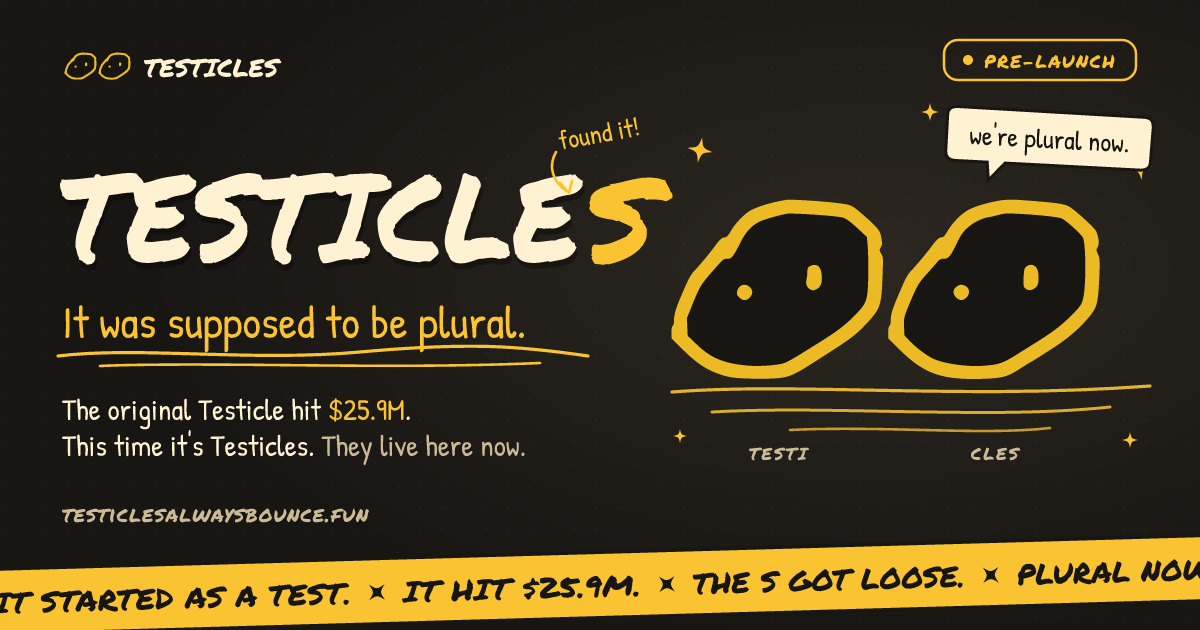
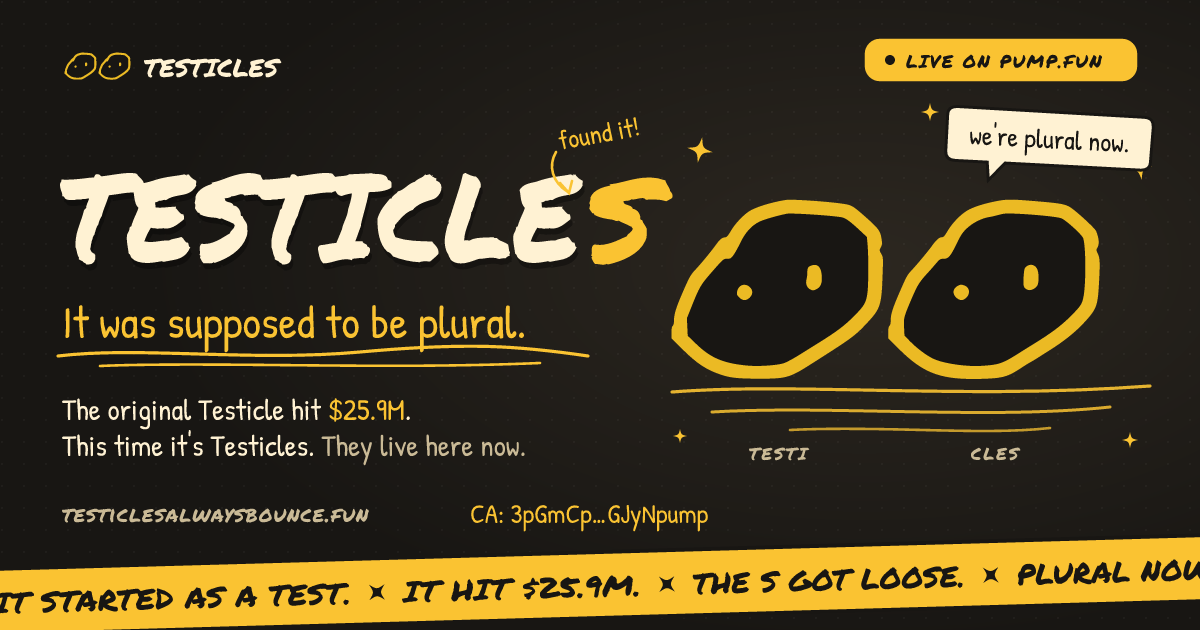
Go live: contract address, buy and chart links
- Copyable CA pills (hero + finale), Buy on pump.fun buttons, DexScreener
  chart link, LIVE · BUY nav chip, footer links
- OG image now says LIVE ON PUMP.FUN and shows the CA
- Pet dialog lines updated for launch

Changed region(s): [[0.7092, 0.0603, 0.9558, 0.1508], [0.4008, 0.7841, 0.5858, 0.8444]]

diff --git a/index.html b/index.html
@@ -66,7 +66,7 @@
       <a href="#pfp">PFP</a>
       <a class="x-link" href="https://x.com/i/communities/2002717537985773778" target="_blank" rel="noopener" aria-label="Testicles community on X"><svg viewBox="0 0 24 24" aria-hidden="true"><path d="M18.244 2.25h3.308l-7.227 8.26 8.502 11.24H16.17l-5.214-6.817L4.99 21.75H1.68l7.73-8.835L1.254 2.25H8.08l4.713 6.231zm-1.161 17.52h1.833L7.084 4.126H5.117z"/></svg></a>
       <button class="sound-toggle" type="button" aria-pressed="false"><span class="sound-bars"><i></i><i></i><i></i></span><span class="sound-label">sound off</span></button>
-      <a href="#contract" class="chip"><span class="chip-dot"></span>PRE-LAUNCH</a>
+      <a href="https://pump.fun/coin/3pGmCpDCr2B6cZFhFJFtLrcMCadMvjV4dB9UGJyNpump" class="chip" target="_blank" rel="noopener"><span class="chip-dot"></span>LIVE · BUY</a>
     </nav>
   </header>
 
@@ -83,11 +83,12 @@
         </p>
         <p class="hero-sub">The original Testicle hit <b>$25.9M</b>.<br />This time it's Testicles. There are two of them. <em>They live here now.</em></p>
         <div class="hero-actions">
+          <a class="btn btn-buy" href="https://pump.fun/coin/3pGmCpDCr2B6cZFhFJFtLrcMCadMvjV4dB9UGJyNpump" target="_blank" rel="noopener" data-magnetic><svg viewBox="0 0 24 24" aria-hidden="true"><path d="M3 4h2.5l2.2 10.5a1.5 1.5 0 0 0 1.5 1.2h7.6a1.5 1.5 0 0 0 1.5-1.1L20 8H6.4"/><circle cx="10" cy="19.5" r="1.4"/><circle cx="17" cy="19.5" r="1.4"/></svg>Buy $TESTICLES</a>
           <button class="btn btn-bounce" type="button" data-magnetic>
             <svg viewBox="0 0 24 24" aria-hidden="true"><path d="M3 18 C 6 6, 9 6, 12 18 C 14 10, 16 10, 18 18 C 19 14, 20 14, 21 18" /></svg>
             Make it bounce
           </button>
-          <button class="ca-pill" type="button"><svg viewBox="0 0 24 24" aria-hidden="true"><rect x="5" y="11" width="14" height="10" rx="2" /><path d="M8 11 V8 a4 4 0 0 1 8 0 V11" /></svg><span>CA coming at launch</span></button>
+          <button class="ca-pill" type="button" data-ca="3pGmCpDCr2B6cZFhFJFtLrcMCadMvjV4dB9UGJyNpump" aria-label="Copy contract address 3pGmCpDCr2B6cZFhFJFtLrcMCadMvjV4dB9UGJyNpump"><span class="ca-tag">CA</span><code class="ca-full">3pGmCpDCr2B6cZFhFJFtLrcMCadMvjV4dB9UGJyNpump</code><code class="ca-short">3pGmCp…GJyNpump</code><svg class="ca-copy" viewBox="0 0 24 24" aria-hidden="true"><rect x="8" y="8" width="12" height="12" rx="2"/><path d="M16 8V5a1 1 0 0 0-1-1H5a1 1 0 0 0-1 1v10a1 1 0 0 0 1 1h3"/></svg><span class="ca-done">copied!</span></button>
           <a class="btn btn-x" href="https://x.com/i/communities/2002717537985773778" target="_blank" rel="noopener"><svg viewBox="0 0 24 24" aria-hidden="true"><path d="M18.244 2.25h3.308l-7.227 8.26 8.502 11.24H16.17l-5.214-6.817L4.99 21.75H1.68l7.73-8.835L1.254 2.25H8.08l4.713 6.231zm-1.161 17.52h1.833L7.084 4.126H5.117z"/></svg>Join on X</a>
         </div>
         <p class="hero-hint"><span class="hint-arrow">↙</span> psst — grab them. throw them. they don't mind.</p>
@@ -284,12 +285,14 @@
       <h2 class="finale-title" data-perch><span>TESTICLES</span><span>ALWAYS BOUNCE.</span></h2>
       <p class="finale-hint">↑ grab the letters. they always bounce back.</p>
       <div class="finale-actions">
-        <a class="btn btn-x btn-x-big" href="https://x.com/i/communities/2002717537985773778" target="_blank" rel="noopener" data-magnetic><svg viewBox="0 0 24 24" aria-hidden="true"><path d="M18.244 2.25h3.308l-7.227 8.26 8.502 11.24H16.17l-5.214-6.817L4.99 21.75H1.68l7.73-8.835L1.254 2.25H8.08l4.713 6.231zm-1.161 17.52h1.833L7.084 4.126H5.117z"/></svg>Join the community on X</a>
-        <button class="ca-pill ca-pill-big" type="button"><svg viewBox="0 0 24 24" aria-hidden="true"><rect x="5" y="11" width="14" height="10" rx="2" /><path d="M8 11 V8 a4 4 0 0 1 8 0 V11" /></svg><span>CA coming at launch</span></button>
+        <button class="ca-pill ca-pill-big" type="button" data-ca="3pGmCpDCr2B6cZFhFJFtLrcMCadMvjV4dB9UGJyNpump" aria-label="Copy contract address 3pGmCpDCr2B6cZFhFJFtLrcMCadMvjV4dB9UGJyNpump"><span class="ca-tag">CA</span><code class="ca-full">3pGmCpDCr2B6cZFhFJFtLrcMCadMvjV4dB9UGJyNpump</code><code class="ca-short">3pGmCp…GJyNpump</code><svg class="ca-copy" viewBox="0 0 24 24" aria-hidden="true"><rect x="8" y="8" width="12" height="12" rx="2"/><path d="M16 8V5a1 1 0 0 0-1-1H5a1 1 0 0 0-1 1v10a1 1 0 0 0 1 1h3"/></svg><span class="ca-done">copied!</span></button>
+        <a class="btn btn-buy btn-x-big" href="https://pump.fun/coin/3pGmCpDCr2B6cZFhFJFtLrcMCadMvjV4dB9UGJyNpump" target="_blank" rel="noopener"><svg viewBox="0 0 24 24" aria-hidden="true"><path d="M3 4h2.5l2.2 10.5a1.5 1.5 0 0 0 1.5 1.2h7.6a1.5 1.5 0 0 0 1.5-1.1L20 8H6.4"/><circle cx="10" cy="19.5" r="1.4"/><circle cx="17" cy="19.5" r="1.4"/></svg>Buy on pump.fun</a>
+        <a class="btn btn-x btn-chart" href="https://dexscreener.com/solana/3pGmCpDCr2B6cZFhFJFtLrcMCadMvjV4dB9UGJyNpump" target="_blank" rel="noopener"><svg viewBox="0 0 24 24" aria-hidden="true"><path d="M3 19 L9 12 L13 15 L21 5 M16 5 H21 V10"/></svg>Chart</a>
+        <a class="btn btn-x" href="https://x.com/i/communities/2002717537985773778" target="_blank" rel="noopener" data-magnetic><svg viewBox="0 0 24 24" aria-hidden="true"><path d="M18.244 2.25h3.308l-7.227 8.26 8.502 11.24H16.17l-5.214-6.817L4.99 21.75H1.68l7.73-8.835L1.254 2.25H8.08l4.713 6.231zm-1.161 17.52h1.833L7.084 4.126H5.117z"/></svg>Join the community on X</a>
       </div>
       <footer class="foot">
         <span>© TESTICLES — a test that got out of hand.</span>
-        <span class="foot-links"><a href="https://pump.fun/coin/4TyZGqRLG3VcHTGMcLBoPUmqYitMVojXinAmkL8xpump" target="_blank" rel="noopener">Original</a><a href="https://x.com/i/communities/2002717537985773778" target="_blank" rel="noopener">X community</a><a href="#top">Back to top ↑</a></span>
+        <span class="foot-links"><a href="https://pump.fun/coin/4TyZGqRLG3VcHTGMcLBoPUmqYitMVojXinAmkL8xpump" target="_blank" rel="noopener">Original</a><a href="https://pump.fun/coin/3pGmCpDCr2B6cZFhFJFtLrcMCadMvjV4dB9UGJyNpump" target="_blank" rel="noopener">pump.fun</a><a href="https://dexscreener.com/solana/3pGmCpDCr2B6cZFhFJFtLrcMCadMvjV4dB9UGJyNpump" target="_blank" rel="noopener">DexScreener</a><a href="https://x.com/i/communities/2002717537985773778" target="_blank" rel="noopener">X community</a><a href="#top">Back to top ↑</a></span>
       </footer>
     </section>
   </main>

diff --git a/src/style.css b/src/style.css
@@ -680,3 +680,24 @@ main { position: relative; z-index: 1; }
 .btn-x svg { width: 20px; height: 20px; fill: currentColor; stroke: none; }
 .btn-x-big { font-size: 26px; padding: 16px 30px 17px; background: var(--yellow); }
 .btn-x-big svg { width: 24px; height: 24px; }
+
+/* live CA + buy */
+.ca-pill { position: relative; color: var(--cream); border-style: solid; border-color: rgba(250, 195, 50, 0.6); background: rgba(24, 22, 19, 0.6); }
+.ca-pill:hover { border-color: var(--yellow); color: var(--yellow); }
+.ca-tag { font-family: var(--display); font-size: 0.75em; padding: 2px 7px; border-radius: 6px; background: var(--yellow); color: var(--ink); }
+.ca-pill code { font-family: ui-monospace, 'SFMono-Regular', Consolas, monospace; font-size: 0.78em; letter-spacing: 0.02em; }
+.ca-short { display: none; }
+.ca-pill svg.ca-copy { width: 18px; height: 18px; fill: none; stroke: currentColor; stroke-width: 2; flex: none; }
+.ca-done { position: absolute; inset: 0; display: grid; place-items: center; border-radius: inherit; background: var(--yellow); color: var(--ink); font-family: var(--display); font-size: 0.9em; opacity: 0; transform: scale(0.8); transition: opacity 0.2s, transform 0.3s cubic-bezier(.3,1.8,.5,1); pointer-events: none; }
+.ca-pill.copied .ca-done { opacity: 1; transform: scale(1); }
+.hero .ca-pill .ca-full { display: none; }
+.hero .ca-pill .ca-short { display: inline; }
+.btn-buy { background: var(--rust); color: var(--cream); text-decoration: none; box-shadow: 4px 5px 0 #000, 0 0 0 2px var(--rust); }
+.btn-buy:hover { box-shadow: 6px 8px 0 #000, 0 0 0 2px var(--rust); }
+.btn-buy svg, .btn-chart svg { width: 22px; height: 22px; fill: none; stroke: currentColor; stroke-width: 2.2; stroke-linecap: round; stroke-linejoin: round; }
+.btn-chart { font-size: 22px; }
+.finale-actions .ca-pill-big { flex-basis: 100%; max-width: max-content; margin: 0 auto 6px; }
+@media (max-width: 720px) {
+  .finale-actions .ca-pill-big .ca-full { display: none; }
+  .finale-actions .ca-pill-big .ca-short { display: inline; }
+}

diff --git a/src/main.js b/src/main.js
@@ -223,11 +223,26 @@ btnBounce.addEventListener('click', () => {
 });
 
 // CA pills
-$$('.ca-pill').forEach((b) => b.addEventListener('click', () => {
-  toast('CA drops at launch. anything before that is fake.');
-  gsap.fromTo(b, { rotate: -4 }, { rotate: 0, duration: 0.6, ease: 'elastic.out(1, 0.3)' });
+async function copyText(text) {
+  try { await navigator.clipboard.writeText(text); return true; } catch {
+    const ta = document.createElement('textarea');
+    ta.value = text; ta.setAttribute('readonly', ''); ta.style.cssText = 'position:fixed;opacity:0';
+    document.body.appendChild(ta); ta.select();
+    let ok = false;
+    try { ok = document.execCommand('copy'); } catch { ok = false; }
+    ta.remove();
+    return ok;
+  }
+}
+$$('.ca-pill').forEach((b) => b.addEventListener('click', async () => {
+  const ok = await copyText(b.dataset.ca);
+  toast(ok ? 'CA copied. welcome to the plural.' : 'copy failed. CA: ' + b.dataset.ca);
+  b.classList.add('copied');
+  setTimeout(() => b.classList.remove('copied'), 1600);
+  gsap.fromTo(b, { rotate: -4, scale: 1.06 }, { rotate: 0, scale: 1, duration: 0.6, ease: 'elastic.out(1, 0.3)' });
+  sound.chime();
   const p = world.pets[Math.random() < 0.5 ? 0 : 1];
-  if (!p.dragging) p.say(Math.random() < 0.5 ? 'not yet.' : 'soon™', 1600);
+  if (!p.dragging) p.say(['copied. go.', 'that is us!', 'plural, on-chain.', 'welcome aboard'][Math.floor(Math.random() * 4)], 1600);
 }));
 
 /* ------------------------------------------------------------------ */

diff --git a/src/pets.js b/src/pets.js
@@ -22,7 +22,7 @@ const LINES = {
   drag: ['wheee', 'put me down', 'too high!!', 'i can see my house', 'this is fine', 'WHERE ARE WE GOING'],
   thrown: ['ow.', '10/10 landing', 'again!', 'my spine (i have no spine)', 'nailed it'],
   think: [
-    ['i was here first.', '$25.9M. as a test.', 'who put an S on me?', 'thinking about bouncing', 'is it launch yet?', 'left one. obviously.', 'hmm.'],
+    ['i was here first.', '$25.9M. as a test.', 'who put an S on me?', 'thinking about bouncing', 'we are live. it is real.', 'left one. obviously.', 'hmm.'],
     ["i'm the S.", 'sequel > original', 'right one. the RIGHT one.', 'scroll down. there is a game.', 'my high score is 0', "i'm new here", 'hmm.'],
   ],
   stage: ['welcome.', "we're the plural.", 'grab us. we dare you.', 'scroll. there is lore.', 'make it bounce →', 'hi.'],
@@ -40,7 +40,7 @@ const DIALOGS = [
   ['did you play the game?', 'i AM the game.'],
   ['bounce?', 'always.'],
   ["where's the S?", "it's us. we're the S."],
-  ['is the CA out?', 'at launch. be patient.'],
+  ['is the CA out?', 'it is live. copy it.'],
 ];
 
 class Token {
